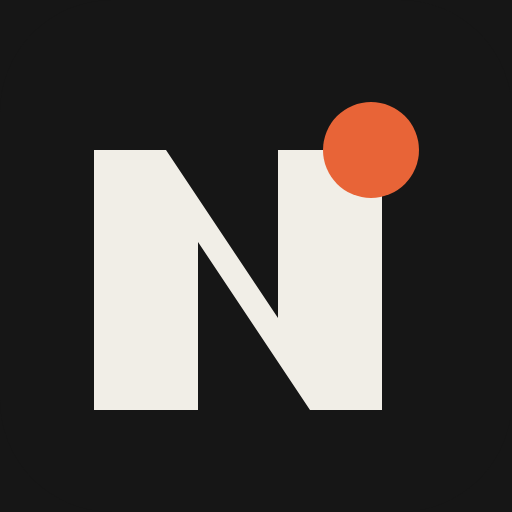
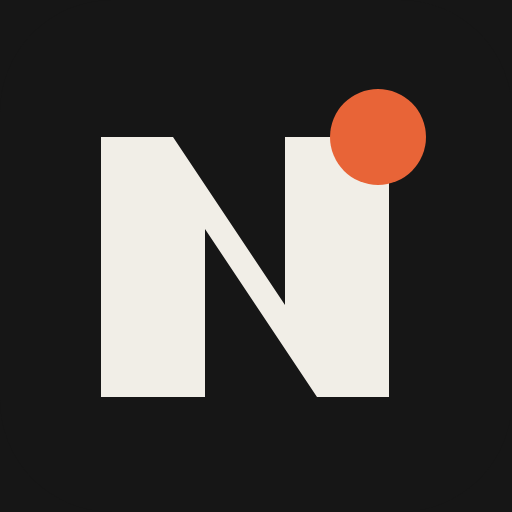
Polish settings and center app artwork

Changed region(s): [[0.1562, 0.25, 0.8125, 0.8125], [0.6562, 0.1562, 0.8438, 0.3125]]

diff --git a/tests/product-surfaces.test.ts b/tests/product-surfaces.test.ts
@@ -58,6 +58,8 @@ describe('local MVP manifests', () => {
     expect(sharedCss).toContain('border-radius: var(--radius-card)');
     expect(sharedCss).toContain('env(safe-area-inset-top, 0px)');
     expect(sharedCss).toContain('420px');
+    expect(sharedCss).toContain('.section-copy');
+    expect(sharedCss).toContain('.connection-section');
     expect(sharedCss).toContain('.resource-actions .resource-link + .resource-link');
     expect(pwaCss).toContain("@import '../../shared/theme.css'");
     expect(pwaCss).toContain('width: min(100%, 736px)');
@@ -78,7 +80,7 @@ describe('local MVP manifests', () => {
     expect(manifest).toMatchObject({
       manifest_version: 3,
       name: 'No BS Summary',
-      version: '0.7.3',
+      version: '0.7.4',
       minimum_chrome_version: '114',
       permissions: ['sidePanel', 'storage'],
       background: { service_worker: 'background.js', type: 'module' },
@@ -175,7 +177,7 @@ describe('local MVP manifests', () => {
 
   it('precaches the built JS and CSS needed for a first offline launch', async () => {
     const worker = await fs.readFile('apps/pwa/public/sw.js', 'utf8');
-    expect(worker).toContain("const CACHE = 'nbs-shell-v14'");
+    expect(worker).toContain("const CACHE = 'nbs-shell-v15'");
     expect(worker).toContain("event.data?.type === 'SKIP_WAITING'");
     expect(worker).toContain('/\\.(?:css|js)$/u');
     expect(worker).toContain("'/icons/icon-192.svg'");
@@ -227,10 +229,16 @@ describe('local MVP manifests', () => {
     );
     expect(pwa).toContain('https://github.com/echoNad3/no_bs_summary');
     expect(pwa).toContain('https://transcriptapi.com/billing');
+    expect(pwa.indexOf('>Chrome extension')).toBeLessThan(pwa.indexOf('>GitHub repo'));
+    expect(pwa.indexOf('>GitHub repo')).toBeLessThan(pwa.indexOf('>TranscriptAPI billing'));
     expect(extension).not.toContain('id="lock-video"');
     expect(extension).toContain('class="manual-link-field"');
     expect(extension).toContain(
       'https://chromewebstore.google.com/detail/no-bs-summary/fnphiadakmbpimdclfohfpbbliejhnmc',
+    );
+    expect(extension.indexOf('>Chrome extension')).toBeLessThan(extension.indexOf('>GitHub repo'));
+    expect(extension.indexOf('>GitHub repo')).toBeLessThan(
+      extension.indexOf('>TranscriptAPI billing'),
     );
   });
 
@@ -246,12 +254,12 @@ describe('local MVP manifests', () => {
       expect(asset).toContain('#e86437');
       expect(asset).not.toContain('#ff8a61');
       expect(asset).not.toContain('#f5f7fa');
-      expect(asset).toContain('transform="translate(-18 24)"');
+      expect(asset).toContain('transform="translate(-11 11)"');
     }
     expect(splash).toContain('#F1EEE7');
     expect(splash).toContain('#E86437');
-    expect(splash).toContain('android:translateX="64"');
-    expect(splash).toContain('android:translateY="64"');
+    expect(splash).toContain('M101,137 H173 L285,305');
+    expect(splash).toContain('M378,89 A48,48');
   });
 });
 

diff --git a/apps/extension/sidepanel.html b/apps/extension/sidepanel.html
@@ -154,31 +154,28 @@
             </p>
           </div>
 
-          <div class="settings-section">
+          <div class="settings-section connection-section">
             <div class="section-heading">
-              <h3>Connection</h3>
+              <div class="section-copy">
+                <h3>Connection</h3>
+                <p
+                  id="connection-status"
+                  class="settings-status"
+                  role="status"
+                  aria-live="polite"
+                ></p>
+              </div>
               <button id="test-connection" class="small-button" type="button">Test</button>
             </div>
-            <p id="connection-status" class="settings-status" role="status" aria-live="polite"></p>
           </div>
 
           <div class="resource-actions">
             <a
               class="resource-link"
-              href="https://transcriptapi.com/billing"
-              target="_blank"
-              rel="noreferrer"
-              >TranscriptAPI billing
-              <svg class="resource-icon" viewBox="0 0 24 24" aria-hidden="true">
-                <path d="M14 5h5v5M19 5l-8 8" />
-                <path d="M18 13v5a1 1 0 0 1-1 1H6a1 1 0 0 1-1-1V7a1 1 0 0 1 1-1h5" /></svg
-            ></a>
-            <a
-              class="resource-link"
               href="https://chromewebstore.google.com/detail/no-bs-summary/fnphiadakmbpimdclfohfpbbliejhnmc"
               target="_blank"
               rel="noreferrer"
-              >Chrome Web Store
+              >Chrome extension
               <svg class="resource-icon" viewBox="0 0 24 24" aria-hidden="true">
                 <path d="M14 5h5v5M19 5l-8 8" />
                 <path d="M18 13v5a1 1 0 0 1-1 1H6a1 1 0 0 1-1-1V7a1 1 0 0 1 1-1h5" /></svg
@@ -189,6 +186,16 @@
               target="_blank"
               rel="noreferrer"
               >GitHub repo
+              <svg class="resource-icon" viewBox="0 0 24 24" aria-hidden="true">
+                <path d="M14 5h5v5M19 5l-8 8" />
+                <path d="M18 13v5a1 1 0 0 1-1 1H6a1 1 0 0 1-1-1V7a1 1 0 0 1 1-1h5" /></svg
+            ></a>
+            <a
+              class="resource-link"
+              href="https://transcriptapi.com/billing"
+              target="_blank"
+              rel="noreferrer"
+              >TranscriptAPI billing
               <svg class="resource-icon" viewBox="0 0 24 24" aria-hidden="true">
                 <path d="M14 5h5v5M19 5l-8 8" />
                 <path d="M18 13v5a1 1 0 0 1-1 1H6a1 1 0 0 1-1-1V7a1 1 0 0 1 1-1h5" /></svg

diff --git a/apps/pwa/index.html b/apps/pwa/index.html
@@ -156,12 +156,19 @@
             </p>
           </div>
 
-          <div class="settings-section">
+          <div class="settings-section connection-section">
             <div class="section-heading">
-              <h3>Connection</h3>
+              <div class="section-copy">
+                <h3>Connection</h3>
+                <p
+                  id="connection-status"
+                  class="settings-status"
+                  role="status"
+                  aria-live="polite"
+                ></p>
+              </div>
               <button id="test-connection" class="small-button" type="button">Test</button>
             </div>
-            <p id="connection-status" class="settings-status" role="status" aria-live="polite"></p>
           </div>
 
           <div class="settings-section">
@@ -193,16 +200,6 @@
           <div class="resource-actions">
             <a
               class="resource-link"
-              href="https://transcriptapi.com/billing"
-              target="_blank"
-              rel="noreferrer"
-              >TranscriptAPI billing
-              <svg class="resource-icon" viewBox="0 0 24 24" aria-hidden="true">
-                <path d="M14 5h5v5M19 5l-8 8" />
-                <path d="M18 13v5a1 1 0 0 1-1 1H6a1 1 0 0 1-1-1V7a1 1 0 0 1 1-1h5" /></svg
-            ></a>
-            <a
-              class="resource-link"
               href="https://chromewebstore.google.com/detail/no-bs-summary/fnphiadakmbpimdclfohfpbbliejhnmc"
               target="_blank"
               rel="noreferrer"
@@ -217,6 +214,16 @@
               target="_blank"
               rel="noreferrer"
               >GitHub repo
+              <svg class="resource-icon" viewBox="0 0 24 24" aria-hidden="true">
+                <path d="M14 5h5v5M19 5l-8 8" />
+                <path d="M18 13v5a1 1 0 0 1-1 1H6a1 1 0 0 1-1-1V7a1 1 0 0 1 1-1h5" /></svg
+            ></a>
+            <a
+              class="resource-link"
+              href="https://transcriptapi.com/billing"
+              target="_blank"
+              rel="noreferrer"
+              >TranscriptAPI billing
               <svg class="resource-icon" viewBox="0 0 24 24" aria-hidden="true">
                 <path d="M14 5h5v5M19 5l-8 8" />
                 <path d="M18 13v5a1 1 0 0 1-1 1H6a1 1 0 0 1-1-1V7a1 1 0 0 1 1-1h5" /></svg

diff --git a/apps/shared/app.css b/apps/shared/app.css
@@ -240,7 +240,7 @@ button:disabled {
 .settings-status {
   color: var(--color-text-muted);
   font-size: var(--fs-meta);
-  line-height: 1.35;
+  line-height: 1.4;
 }
 
 .status {
@@ -407,6 +407,11 @@ dialog::backdrop {
   gap: var(--space-4);
 }
 
+.settings-fields > .field-group > label {
+  font-size: var(--fs-meta);
+  line-height: 1.35;
+}
+
 .password-control {
   position: relative;
 }
@@ -427,10 +432,17 @@ dialog::backdrop {
 .settings-section {
   padding: var(--space-4);
   display: grid;
-  gap: 10px;
+  gap: var(--space-3);
   background: var(--color-surface-raised);
   border: 1px solid var(--color-border);
   border-radius: var(--radius-control);
+}
+
+.settings-section h3,
+.resource-actions .resource-link {
+  font-size: var(--fs-label);
+  font-weight: var(--fw-bold);
+  line-height: 1.25;
 }
 
 .section-heading {
@@ -440,9 +452,24 @@ dialog::backdrop {
   gap: var(--space-3);
 }
 
+.section-copy {
+  min-width: 0;
+  display: grid;
+  gap: var(--space-2);
+}
+
+.connection-section {
+  gap: 0;
+}
+
+.connection-section .small-button {
+  flex: 0 0 auto;
+}
+
 .build-label {
   color: var(--color-text-subtle);
-  font-size: var(--fs-caption);
+  font-size: var(--fs-meta);
+  line-height: 1.4;
   text-align: right;
 }
 
@@ -459,6 +486,7 @@ dialog::backdrop {
   gap: var(--space-3);
   color: var(--color-text-muted);
   font-size: var(--fs-meta);
+  line-height: 1.4;
 }
 
 .quota-row strong {
@@ -469,9 +497,10 @@ dialog::backdrop {
 
 .update-progress {
   display: grid;
-  gap: 7px;
+  gap: var(--space-2);
   color: var(--color-text-muted);
   font-size: var(--fs-meta);
+  line-height: 1.4;
 }
 
 .update-progress > span {
@@ -511,7 +540,7 @@ dialog::backdrop {
 
 .resource-actions .resource-link {
   width: 100%;
-  min-height: 54px;
+  min-height: calc(var(--tap) + var(--space-2));
   padding-inline: var(--space-4);
   justify-content: flex-start;
   background: transparent;

diff --git a/tests/generation-quota.test.ts b/tests/generation-quota.test.ts
@@ -14,7 +14,7 @@ describe('generation quota', () => {
       day: '2026-08-23',
       month: '2026-08',
       userKey: 'a'.repeat(64),
-      dailyLimit: 300,
+      dailyLimit: 100,
       userLimit: 5,
       globalLimit: 50,
       dailyResetsAt: '2026-08-24T00:00:00.000Z',
@@ -22,13 +22,13 @@ describe('generation quota', () => {
     });
 
     const status = makeGenerationQuotaStatus(12, 3, 12, request);
-    expect(status.daily).toMatchObject({ used: 12, limit: 300, remaining: 288 });
+    expect(status.daily).toMatchObject({ used: 12, limit: 100, remaining: 88 });
     expect(status.free.user).toMatchObject({ used: 3, limit: 5, remaining: 2 });
     expect(status.free.shared).toMatchObject({ used: 12, limit: 50, remaining: 38 });
     expect(blockedReason(status, 'free')).toBeUndefined();
     expect(blockedReason(makeGenerationQuotaStatus(12, 5, 12, request), 'free')).toBe('user');
     expect(blockedReason(makeGenerationQuotaStatus(12, 2, 50, request), 'free')).toBe('global');
-    expect(blockedReason(makeGenerationQuotaStatus(300, 2, 12, request), 'owner')).toBe('daily');
+    expect(blockedReason(makeGenerationQuotaStatus(100, 2, 12, request), 'owner')).toBe('daily');
   });
 
   it('groups rotating IPv6 addresses by /64 but keeps IPv4 addresses distinct', () => {

diff --git a/tests/api-client.test.ts b/tests/api-client.test.ts
@@ -128,8 +128,8 @@ describe('browser API client', () => {
           access: 'owner',
           dailyGeneration: {
             used: 4,
-            limit: 300,
-            remaining: 296,
+            limit: 100,
+            remaining: 96,
             resetsAt: '2026-08-09T00:00:00.000Z',
           },
           freeGeneration: {
@@ -156,7 +156,7 @@ describe('browser API client', () => {
       checkBackend('https://app.example/', { password: 'shared secret' }),
     ).resolves.toMatchObject({
       access: 'owner',
-      dailyGeneration: { remaining: 296 },
+      dailyGeneration: { remaining: 96 },
       freeGeneration: { user: { remaining: 4 }, shared: { remaining: 42 } },
     });
     expect(fetchMock).toHaveBeenCalledWith(
@@ -174,7 +174,7 @@ describe('browser API client', () => {
       access: 'owner',
       dailyGeneration: {
         used: 4,
-        limit: 300,
+        limit: 100,
         remaining: 296,
         resetsAt: '2026-08-09T00:00:00.000Z',
       },

diff --git a/worker-configuration.d.ts b/worker-configuration.d.ts
@@ -1,11 +1,11 @@
 /* eslint-disable */
-// Generated by Wrangler by running `wrangler types --include-runtime=false --env-interface=WorkerBindings` (hash: 9112b18a12a19214d8c08361a1cc9596)
+// Generated by Wrangler by running `wrangler types --include-runtime=false --env-interface=WorkerBindings` (hash: 243f5f4cd898f76dc07538fad3b59008)
 interface __BaseEnv_WorkerBindings {
 	SUMMARIES: KVNamespace;
 	ASSETS: Fetcher;
 	GEMINI_MODEL: "gemini-3.1-flash-lite";
 	END_TO_END_TIMEOUT_MS: "60000";
-	DAILY_SUMMARY_LIMIT: "300";
+	DAILY_SUMMARY_LIMIT: "100";
 	FREE_USER_MONTHLY_LIMIT: "5";
 	FREE_GLOBAL_MONTHLY_LIMIT: "50";
 	APP_PASSWORD: string;

diff --git a/tests/extension.test.ts b/tests/extension.test.ts
@@ -34,7 +34,7 @@ describe('extension manifest permissions', () => {
       action: { default_title: string; default_icon: Record<string, string> };
     };
     expect(manifest.name).toBe('No BS Summary');
-    expect(manifest.version).toBe('0.7.3');
+    expect(manifest.version).toBe('0.7.4');
     expect((manifest as { minimum_chrome_version?: string }).minimum_chrome_version).toBe('114');
     expect(manifest.host_permissions).toEqual(
       expect.arrayContaining([

diff --git a/src/generation-quota.ts b/src/generation-quota.ts
@@ -3,7 +3,7 @@ import { DurableObject } from 'cloudflare:workers';
 const QUOTA_OBJECT_NAME = 'generation-quota';
 const QUOTA_API_ORIGIN = 'https://generation-quota.internal';
 
-export const DEFAULT_DAILY_SUMMARY_LIMIT = 300;
+export const DEFAULT_DAILY_SUMMARY_LIMIT = 100;
 export const DEFAULT_FREE_USER_MONTHLY_LIMIT = 5;
 export const DEFAULT_FREE_GLOBAL_MONTHLY_LIMIT = 50;
 

diff --git a/apps/pwa/public/sw.js b/apps/pwa/public/sw.js
@@ -1,4 +1,4 @@
-const CACHE = 'nbs-shell-v14';
+const CACHE = 'nbs-shell-v15';
 const CORE = [
   '/manifest.webmanifest',
   '/icons/icon-192.png',

diff --git a/README.md b/README.md
@@ -49,7 +49,7 @@ Change the server password with `npx.cmd wrangler secret put APP_PASSWORD` on Wi
 `npx wrangler secret put APP_PASSWORD` on other shells. Enter the same password in app Settings.
 
 Paid generation attempts are reserved atomically by the `GENERATION_QUOTA` Durable Object. The
-defaults are 300 total attempts per UTC day, five passwordless attempts per network per UTC month,
+defaults are 100 total attempts per UTC day, five passwordless attempts per network per UTC month,
 and 50 passwordless attempts shared per UTC month. Change them in `wrangler.jsonc`. Cached summaries
 do not consume any limit.
 
